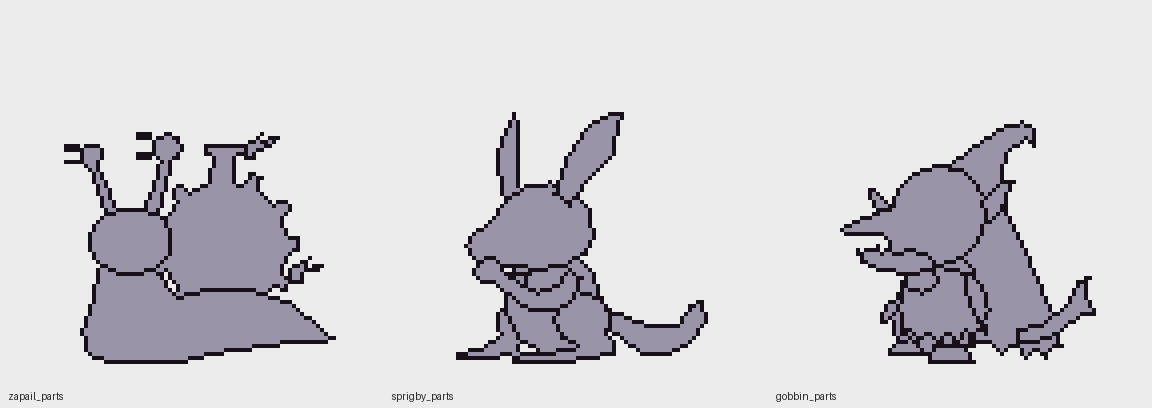
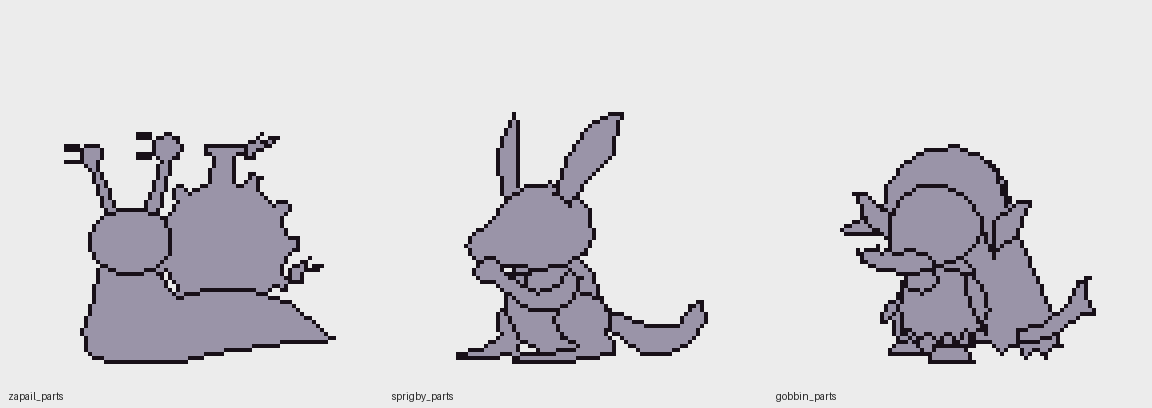
Gobbin silhouette: rounded hood with fin-ears poking out
Replaces the pointed cape tip with a traditional hood pulled over the
head, framing the face, with both fin-ears sticking out from under it.

Claude-Session: https://claude.ai/code/session_01NDaBcuNY8LLNS1rzT9Z9Co

Changed region(s): [[0.7188, 0.2941, 0.9062, 0.6176]]

diff --git a/art/creatures/gobbin.px.js b/art/creatures/gobbin.px.js
@@ -2,7 +2,8 @@
 // A pale-pink goblin-shark pup from the deep water off Kettleport: a head far too big for it,
 // a long blade snout (its goblin nose), pointy fin-ears, an underslung jaw of needle teeth, a
 // faintly glowing throat sac that flickers before it bites, a ragged scrap of a tunic, and a
-// tattered dorsal fin worn like a cape whose tip flops over like a goblin's hood. Battle
+// tattered dorsal fin worn as a hooded cape: a traditional rounded hood over its head with the
+// fin-ears poking out from under it. Battle
 // pose, turned three-quarters to the viewer: standing hunched on stubby fin-feet, jaw dropped
 // open, fins raised nervously, the cape hanging behind it to the ground with the shark tail
 // poking out under the hem.
@@ -22,11 +23,11 @@ const T = (pts) => pts.map((v, i) => (i % 2 ? 91 - (91 - v) * K : 48 + (v - 48) 
 const parts = [
   // three-quarter turn: chest and face toward the viewer, the far side on the left, the
   // back (cape, tail) running away up to the right
-  // cape: the dorsal fin, rising behind the head to a tall point that flops over at the tip
-  // like a goblin's hood, then hanging behind the body to the ground (a sliver shows past
-  // the far shoulder); its hem torn into strips
-  { g: "cape", s: [38, 32, 46, 24, 54, 18, 62, 13, 69, 11, 73, 14, 73, 20, 70, 17, 64, 22, 62, 30, 63, 38, 66, 46, 72, 58, 78, 72, 82, 86,
-    78, 85, 77, 90, 73, 86, 70, 90, 66, 85, 62, 88, 58, 84, 48, 86, 36, 86, 28, 84, 25, 80, 27, 70, 31, 56, 35, 44] },
+  // cape: the dorsal fin, rounded over the back of the head into the hood, then hanging
+  // behind the body to the ground (a sliver shows past the far shoulder); its hem torn
+  // into strips
+  { g: "cape", s: [36, 30, 44, 24, 52, 22, 58, 24, 63, 30, 65, 38, 66, 46, 72, 58, 78, 72, 82, 86,
+    78, 85, 77, 90, 73, 86, 70, 90, 66, 85, 62, 88, 58, 84, 48, 86, 36, 86, 28, 84, 25, 80, 27, 70, 31, 56, 33, 42] },
   // tail: poking out under the hem, lifted, a long upper lobe and a short lower one
   { g: "tail", s: [66, 80, 76, 77, 83, 71, 87, 63, 91, 62, 90, 69, 93, 75, 87, 76, 81, 81, 72, 85, 66, 85] },
   // far fin-foot (left), set back
@@ -40,14 +41,17 @@ const parts = [
   { g: "foot", s: [40, 84, 50, 84, 53, 91, 37, 91, 37, 88] },
   // far fin-hand: a blade fin held up nervously in front of the far side of the chest
   { g: "farFin", s: [31, 68, 28, 73, 24, 78, 21, 77, 24, 70] },
-  // far fin-ear: pointy, sticking out from the far side of the head (narrower, turned away)
-  { g: "farEar", s: [27, 40, 19, 33, 17, 34, 21, 43, 26, 46] },
   // head: oversized and domed, turned toward the viewer, wide enough for both big eyes
   { g: "head", s: [24, 42, 27, 34, 33, 28, 41, 25, 49, 27, 55, 33, 57, 41, 55, 50, 50, 56, 42, 59, 32, 59, 26, 55, 23, 49] },
   // rostrum: the blade snout (its long goblin nose), pointing forward and toward the viewer
   { g: "head", s: [29, 38, 20, 41, 11, 45, 8, 48, 14, 49, 27, 48] },
-  // near fin-ear: pointy, sticking out and back from the near side of the head
-  { g: "ear", s: [55, 37, 63, 30, 66, 31, 62, 41, 56, 46] },
+  // hood: a traditional rounded hood pulled over the top of the head, its front edge
+  // framing the face from the forehead down to the cheeks
+  { g: "hood", s: [22, 42, 23, 33, 29, 25, 37, 20, 47, 19, 55, 22, 61, 29, 64, 39, 63, 50, 59, 57, 56, 51,
+    54, 43, 50, 37, 43, 33, 35, 33, 29, 37, 25, 45] },
+  // fin-ears poking out from under the hood's edge, the far one (left) narrower
+  { g: "farEar", s: [26, 42, 17, 35, 13, 35, 17, 45, 25, 51] },
+  { g: "ear", s: [58, 44, 68, 37, 72, 37, 67, 49, 59, 55] },
   // throat sac: a round bulge under the jaw
   { g: "sac", ell: [35, 63, 6, 5] },
   // jaw: dropped open under the snout, needle teeth jagging up along its rim
